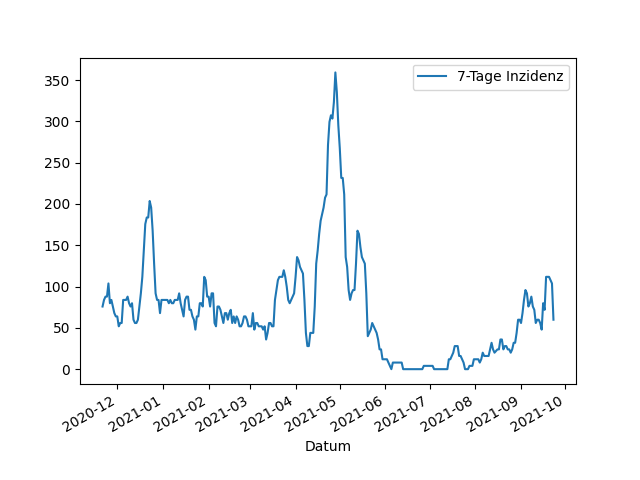
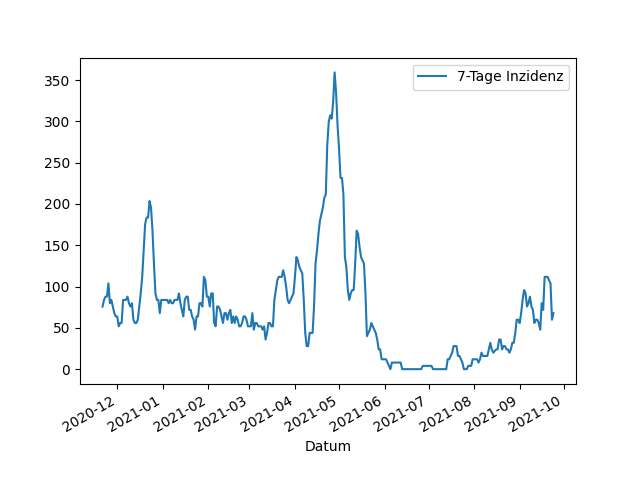
Update images

diff --git a/_includes/aktuelle_inzidenz.md b/_includes/aktuelle_inzidenz.md
@@ -1,1 +1,1 @@
-59,9
+67,9
